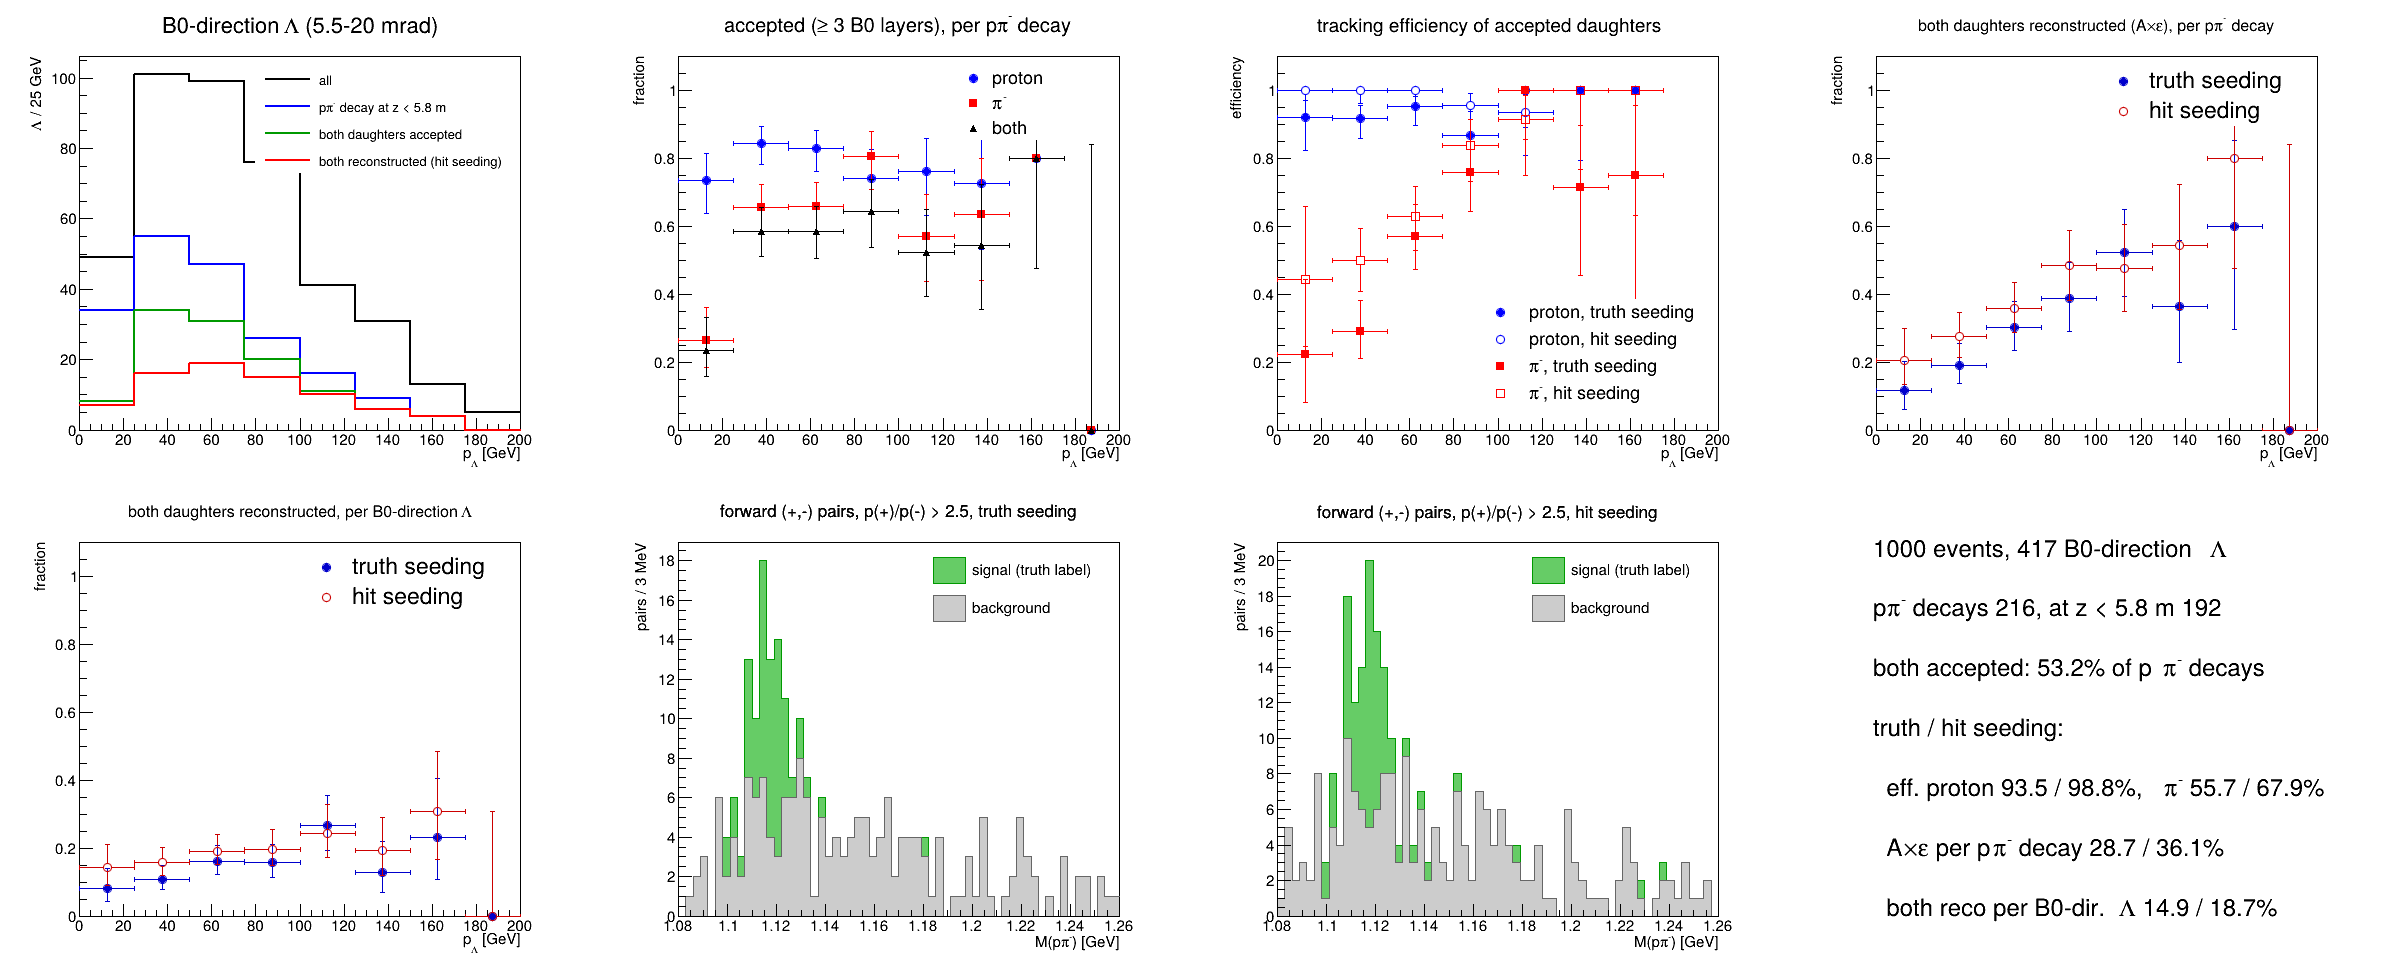
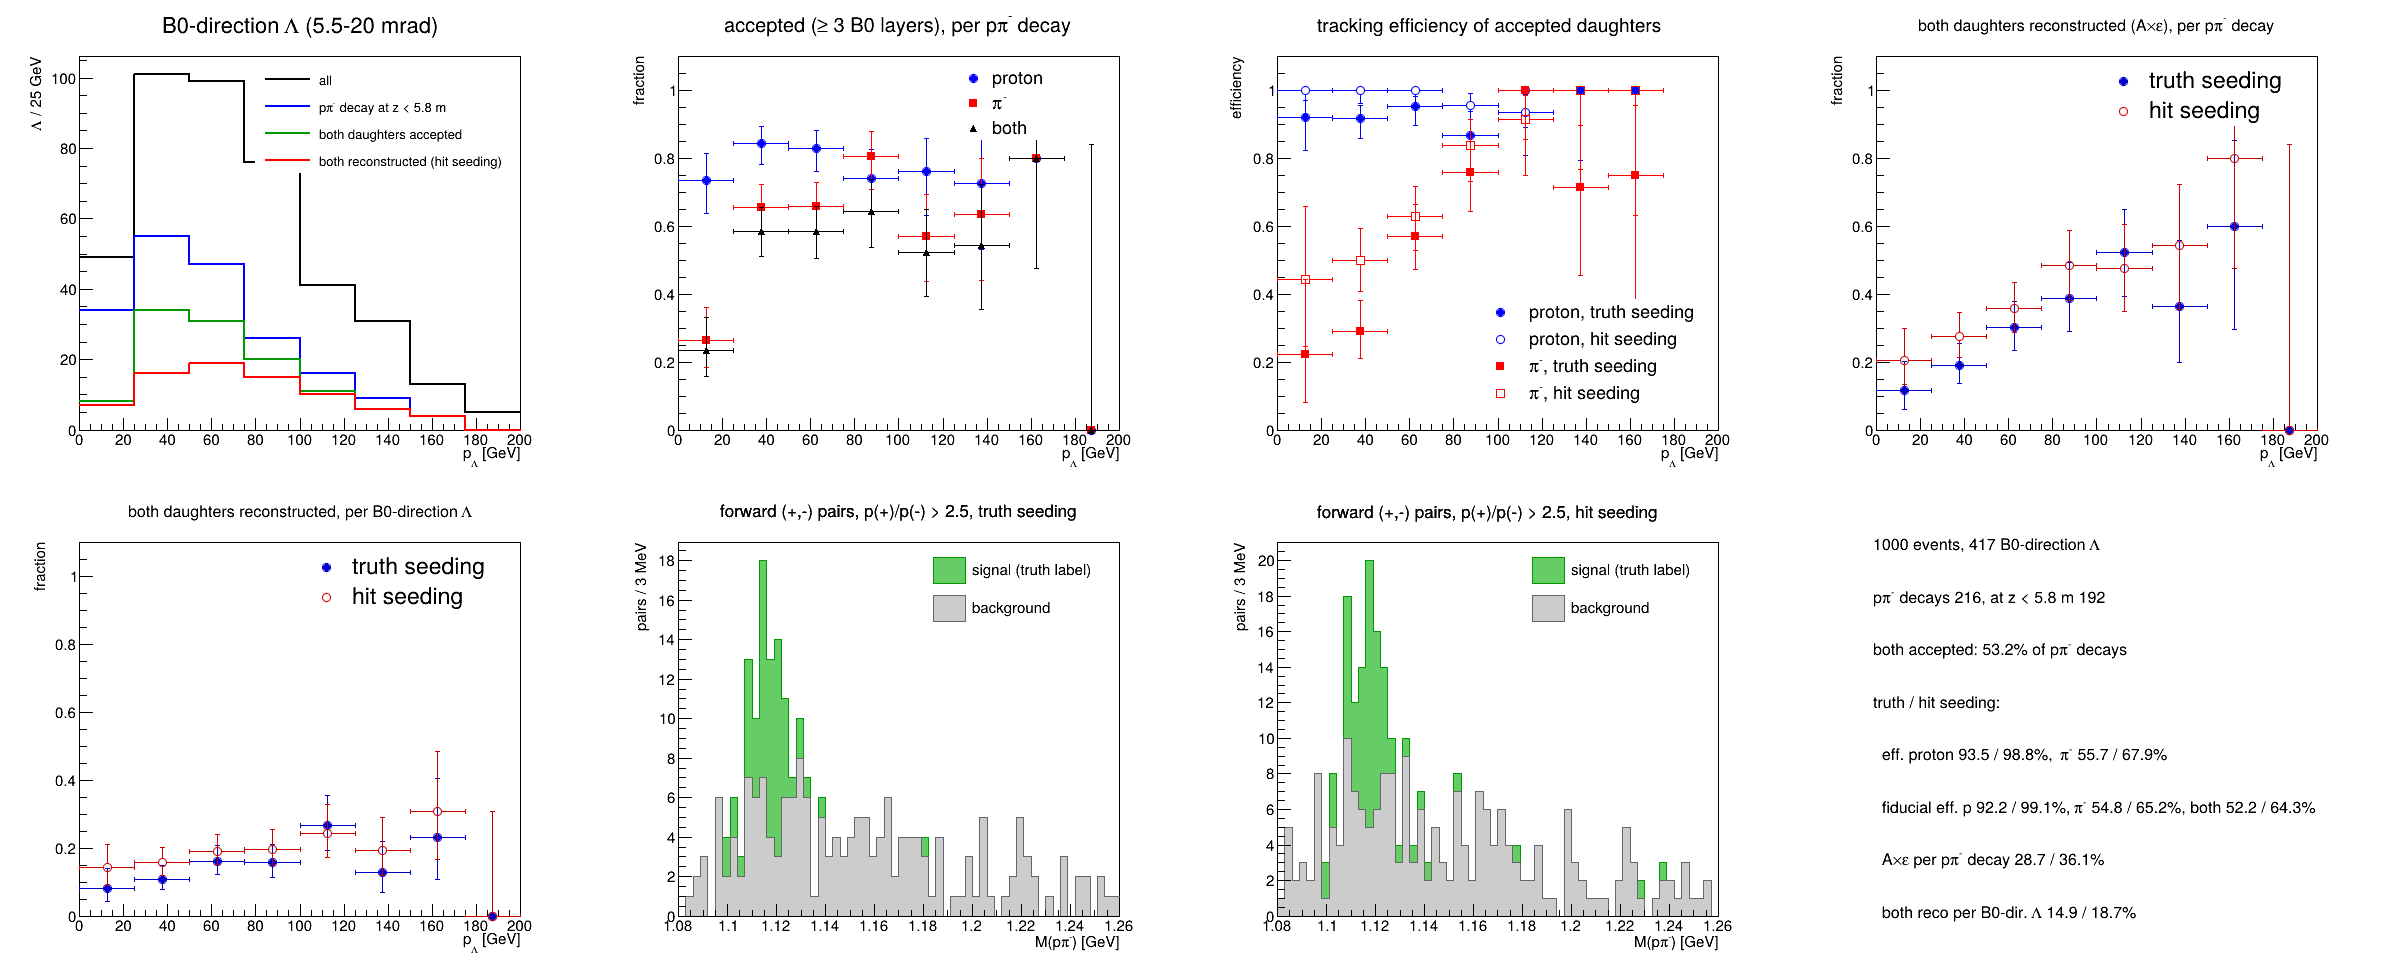
lambda_dis.C: tracking efficiencies in the fiducial volume (both daughters accepted)

diff --git a/macros/dis/lambda_dis.C b/macros/dis/lambda_dis.C
@@ -9,6 +9,8 @@
 //   decayed before the B0  p pi- decay at z < 5.8 m, per B0-direction Lambda
 //   acceptance             accepted daughters (>= 3 B0 layers of own simulated hits) per p pi- decay
 //   tracking efficiency    reconstructed / accepted daughters
+//   fiducial efficiency    p, pi-, both reconstructed, for decays with both daughters accepted;
+//                          acceptance(both) x eff(both, fiducial) = fiducial A x eff
 //   acceptance x eff.      both daughters reconstructed, per p pi- decay (= A(both) x eff(both | accepted))
 //   yield                  both daughters reconstructed, per B0-direction Lambda
 // Mass: every (+,-) pair of FORWARD reconstructed particles (beam-frame theta < 30 mrad, i.e. B0
@@ -65,6 +67,7 @@ void lambda_dis(const char* files = "/eos/user/g/gninio/eic/lambda_dis/dis_lambd
   long nEv = 0, nEvB0 = 0, nLamAll = 0, nLamFwd = 0, nB0 = 0, nPPi = 0, nBef = 0, nAccB = 0;
   long nRecB[2] = {0, 0}, nEvRec[2] = {0, 0}, nFwdTrk[2] = {0, 0}, nPair[2] = {0, 0}, nPairS[2] = {0, 0};
   long nAccP = 0, nAccPi = 0, nRecP[2] = {0, 0}, nRecPi[2] = {0, 0};
+  long nFidP[2] = {0, 0}, nFidPi[2] = {0, 0}, nFidB[2] = {0, 0};   // reconstructed, both daughters accepted
 
   while (r.Next()) {
     ++nEv;
@@ -94,6 +97,7 @@ void lambda_dis(const char* files = "/eos/user/g/gninio/eic/lambda_dis/dis_lambd
           axe[s].Fill(rcB[s], p);
           if (ap)  { eP[s].Fill(rp, p);   nRecP[s] += rp; }
           if (api) { ePi[s].Fill(rpi, p); nRecPi[s] += rpi; }
+          if (ap && api) { nFidP[s] += rp; nFidPi[s] += rpi; nFidB[s] += rp && rpi; }
         }
       }
       for (int s = 0; s < 2; ++s) { yld[s].Fill(rcB[s], p); nRecB[s] += rcB[s]; evRec[s] |= rcB[s]; }
@@ -132,6 +136,9 @@ void lambda_dis(const char* files = "/eos/user/g/gninio/eic/lambda_dis/dis_lambd
            " %.1f%% per B0-dir. Lambda;  events with one: %ld (%.2f%% of events)\n", seed[s].Name(),
            Pct(nRecP[s], nAccP), nRecP[s], nAccP, Pct(nRecPi[s], nAccPi), nRecPi[s], nAccPi,
            nRecB[s], Pct(nRecB[s], nPPi), Pct(nRecB[s], nB0), nEvRec[s], Pct(nEvRec[s], nEv));
+  for (int s = 0; s < 2; ++s)
+    printf("%-14s fiducial (both accepted, %ld): eff p %5.1f%%  pi %5.1f%%  both %5.1f%%;  fiducial AxE %.1f%% per p pi- decay\n",
+           seed[s].Name(), nAccB, Pct(nFidP[s], nAccB), Pct(nFidPi[s], nAccB), Pct(nFidB[s], nAccB), Pct(nFidB[s], nPPi));
   for (int s = 0; s < 2; ++s) {
     int b1 = hS[s].FindBin(kMassLambda - 0.01), b2 = hS[s].FindBin(kMassLambda + 0.01);
     double S = hS[s].Integral(b1, b2), B = hB[s].Integral(b1, b2);
@@ -183,6 +190,8 @@ void lambda_dis(const char* files = "/eos/user/g/gninio/eic/lambda_dis/dis_lambd
   t.AddText(TString::Format("both accepted: %.1f%% of p#pi^{-} decays", Pct(nAccB, nPPi)));
   t.AddText("truth / hit seeding:");
   t.AddText(TString::Format("  eff. proton %.1f / %.1f%%,  #pi^{-} %.1f / %.1f%%", Pct(nRecP[0], nAccP), Pct(nRecP[1], nAccP), Pct(nRecPi[0], nAccPi), Pct(nRecPi[1], nAccPi)));
+  t.AddText(TString::Format("  fiducial eff. p %.1f / %.1f%%, #pi^{-} %.1f / %.1f%%, both %.1f / %.1f%%",
+            Pct(nFidP[0], nAccB), Pct(nFidP[1], nAccB), Pct(nFidPi[0], nAccB), Pct(nFidPi[1], nAccB), Pct(nFidB[0], nAccB), Pct(nFidB[1], nAccB)));
   t.AddText(TString::Format("  A#times#varepsilon per p#pi^{-} decay %.1f / %.1f%%", Pct(nRecB[0], nPPi), Pct(nRecB[1], nPPi)));
   t.AddText(TString::Format("  both reco per B0-dir. #Lambda %.1f / %.1f%%", Pct(nRecB[0], nB0), Pct(nRecB[1], nB0)));
   t.Draw();

diff --git a/notes/claude_summary.md b/notes/claude_summary.md
@@ -173,6 +173,21 @@ particle gun (p = 50–100 GeV, θ = 8–18 mrad, 25 mrad crossing angle, 18×27
   | both reco per B0-direction Λ, truth / hit | 14.9 / 18.7 % | 3.6 / 5.0 % | 13.9 / 16.8 % | 5.5 / 6.7 % |
   | mass ±10 MeV, hit seeding, S / B | 54 / 54 | 18 / 10 | 89 / 24 | 34 / 8 |
 
+  Fiducial volume = p π⁻ decays with both daughters accepted; the efficiencies below are measured on
+  these decays only, so acceptance × ε(both) = fiducial A×ε exactly. The plain A×ε also counts the
+  few decays reconstructed although a daughter has < 3 layers of its own hits.
+
+  | beam | geometry | seeding | acceptance (both) | ε p | ε π⁻ | ε both | A×ε (fiducial) | A×ε (all) |
+  |---|---|---|---|---|---|---|---|---|
+  | 18×275 | old | truth | 53.2 % (115/216) | 92.2 % | 54.8 % | 52.2 % | 27.8 % | 28.7 % |
+  | 18×275 | old | hit   | 53.2 % | 99.1 % | 65.2 % | 64.3 % | 34.3 % | 36.1 % |
+  | 18×275 | new | truth | 16.0 % (33/206) | 78.8 % | 51.5 % | 42.4 % | 6.8 % | 7.3 % |
+  | 18×275 | new | hit   | 16.0 % | 100 % | 60.6 % | 60.6 % | 9.7 % | 10.2 % |
+  | 9×130 | old | truth | 51.9 % (196/378) | 95.9 % | 53.1 % | 50.0 % | 25.9 % | 25.9 % |
+  | 9×130 | old | hit   | 51.9 % | 100 % | 59.2 % | 59.2 % | 30.7 % | 31.2 % |
+  | 9×130 | new | truth | 21.8 % (81/372) | 97.5 % | 46.9 % | 46.9 % | 10.2 % | 10.5 % |
+  | 9×130 | new | hit   | 21.8 % | 100 % | 56.8 % | 56.8 % | 12.4 % | 12.6 % |
+
   Campaign SIDIS 9×130 (19 900 events): 3.4 % of events have a B0-direction Λ; both daughters
   accepted 48.3 % of p π⁻ (as in our samples); truth-seeded eff p 6.4 %, π⁻ 3.0 %, A×ε 2.0 %.
 - The new geometry loses acceptance mainly through its ±45° φ gap (beam frame, electron side:

diff --git a/notes/claude_log.md b/notes/claude_log.md
@@ -509,3 +509,6 @@ Macro `~/private/eic/compare_tracks.C` (run in `~/private/eic`). Both use the co
   - new: p π⁻ 372, before 341, both accepted 81 (21.8 %); eff p 97.1/100 %, π⁻ 45.2/53.2 %; A×ε 10.5/12.6 %; per Λ 5.5/6.7 %; ±10 MeV truth S 31 B 6, hit S 34 B 8.
   - Consistent with s401 alone. Montage (old above new) shown. claude_summary.md section 10: results table for both energies + campaign, section marked done.
 - 2026-11-18: deleted the 3-event condor test output `/eos/user/g/gninio/eic/condor_test` (seed 9, ~21 MB; user request).
+- 2026-11-18: Q: why acceptance × ε p × ε π⁻ ≠ A×ε? Per-daughter efficiencies were over all accepted protons / pions (not only decays with both accepted, a harder subset), and "both reco" did not require acceptance. User: add efficiencies in the fiducial volume (both daughters accepted). `lambda_dis.C`: new printout line "fiducial (both accepted, N): eff p, pi, both; fiducial AxE" + line in the text pad; reran the four own samples (campaign not rerun). Fiducial table added to claude_summary.md section 10.
+  - fiducial ε p / ε π⁻ / ε both, truth | hit: 18x275 old 92.2/54.8/52.2 | 99.1/65.2/64.3; new 78.8/51.5/42.4 | 100/60.6/60.6; 9x130 old 95.9/53.1/50.0 | 100/59.2/59.2; new 97.5/46.9/46.9 | 100/56.8/56.8.
+  - fiducial A×ε truth | hit: 18x275 old 27.8 | 34.3, new 6.8 | 9.7; 9x130 old 25.9 | 30.7, new 10.2 | 12.4 (all-reco A×ε 0–2 points higher).
